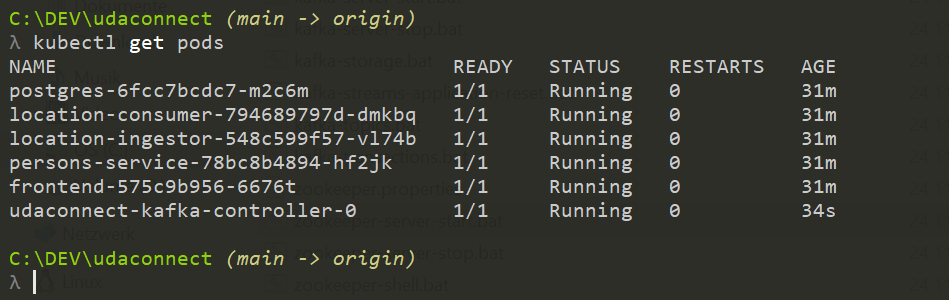
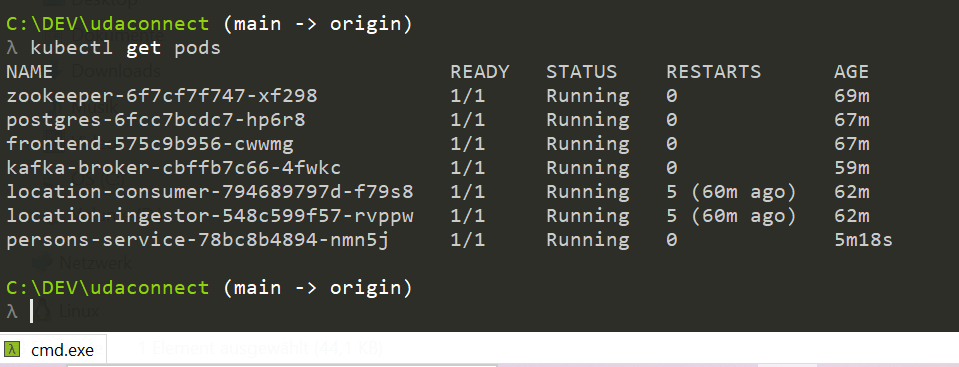
Final changes

Changed region(s): [[0.0, 0.03, 0.9473, 0.75], [0.0, 0.75, 1.0, 1.0]]

diff --git a/README.md b/README.md
@@ -92,13 +92,12 @@ Note: The first time you run this project, you will need to seed the database wi
 First apply `kubectl apply -f deployment/kafka/zookeeper.yaml`, then update kafka.yaml with zookeeper internal ip, and then `kubectl apply -f deployment/kafka/kafka.yaml`.
 
 ### Verifying it Works
-Once the project is up and running, you should be able to see 6 pods and 8 services in Kubernetes:
-`kubectl get pods` and `kubectl get services` - should both return `location-consumer`, `location-ingestor`, `persons-service`, `postgres` and `frontend`
+Once the project is up and running, you should be able to see 7 pods and 8 services in Kubernetes:
+`kubectl get pods` and `kubectl get services` - should both return `location-consumer`, `location-ingestor`, `persons-service`, `postgres`, `frontend` and Kafka related.
 
 
 These pages should also load on your web browser:
 * `http://localhost:30001/` - OpenAPI Documentation
-* `http://localhost:30001/api/` - Base path for API
 * `http://localhost:30000/` - Frontend ReactJS Application
 
 ## Development
